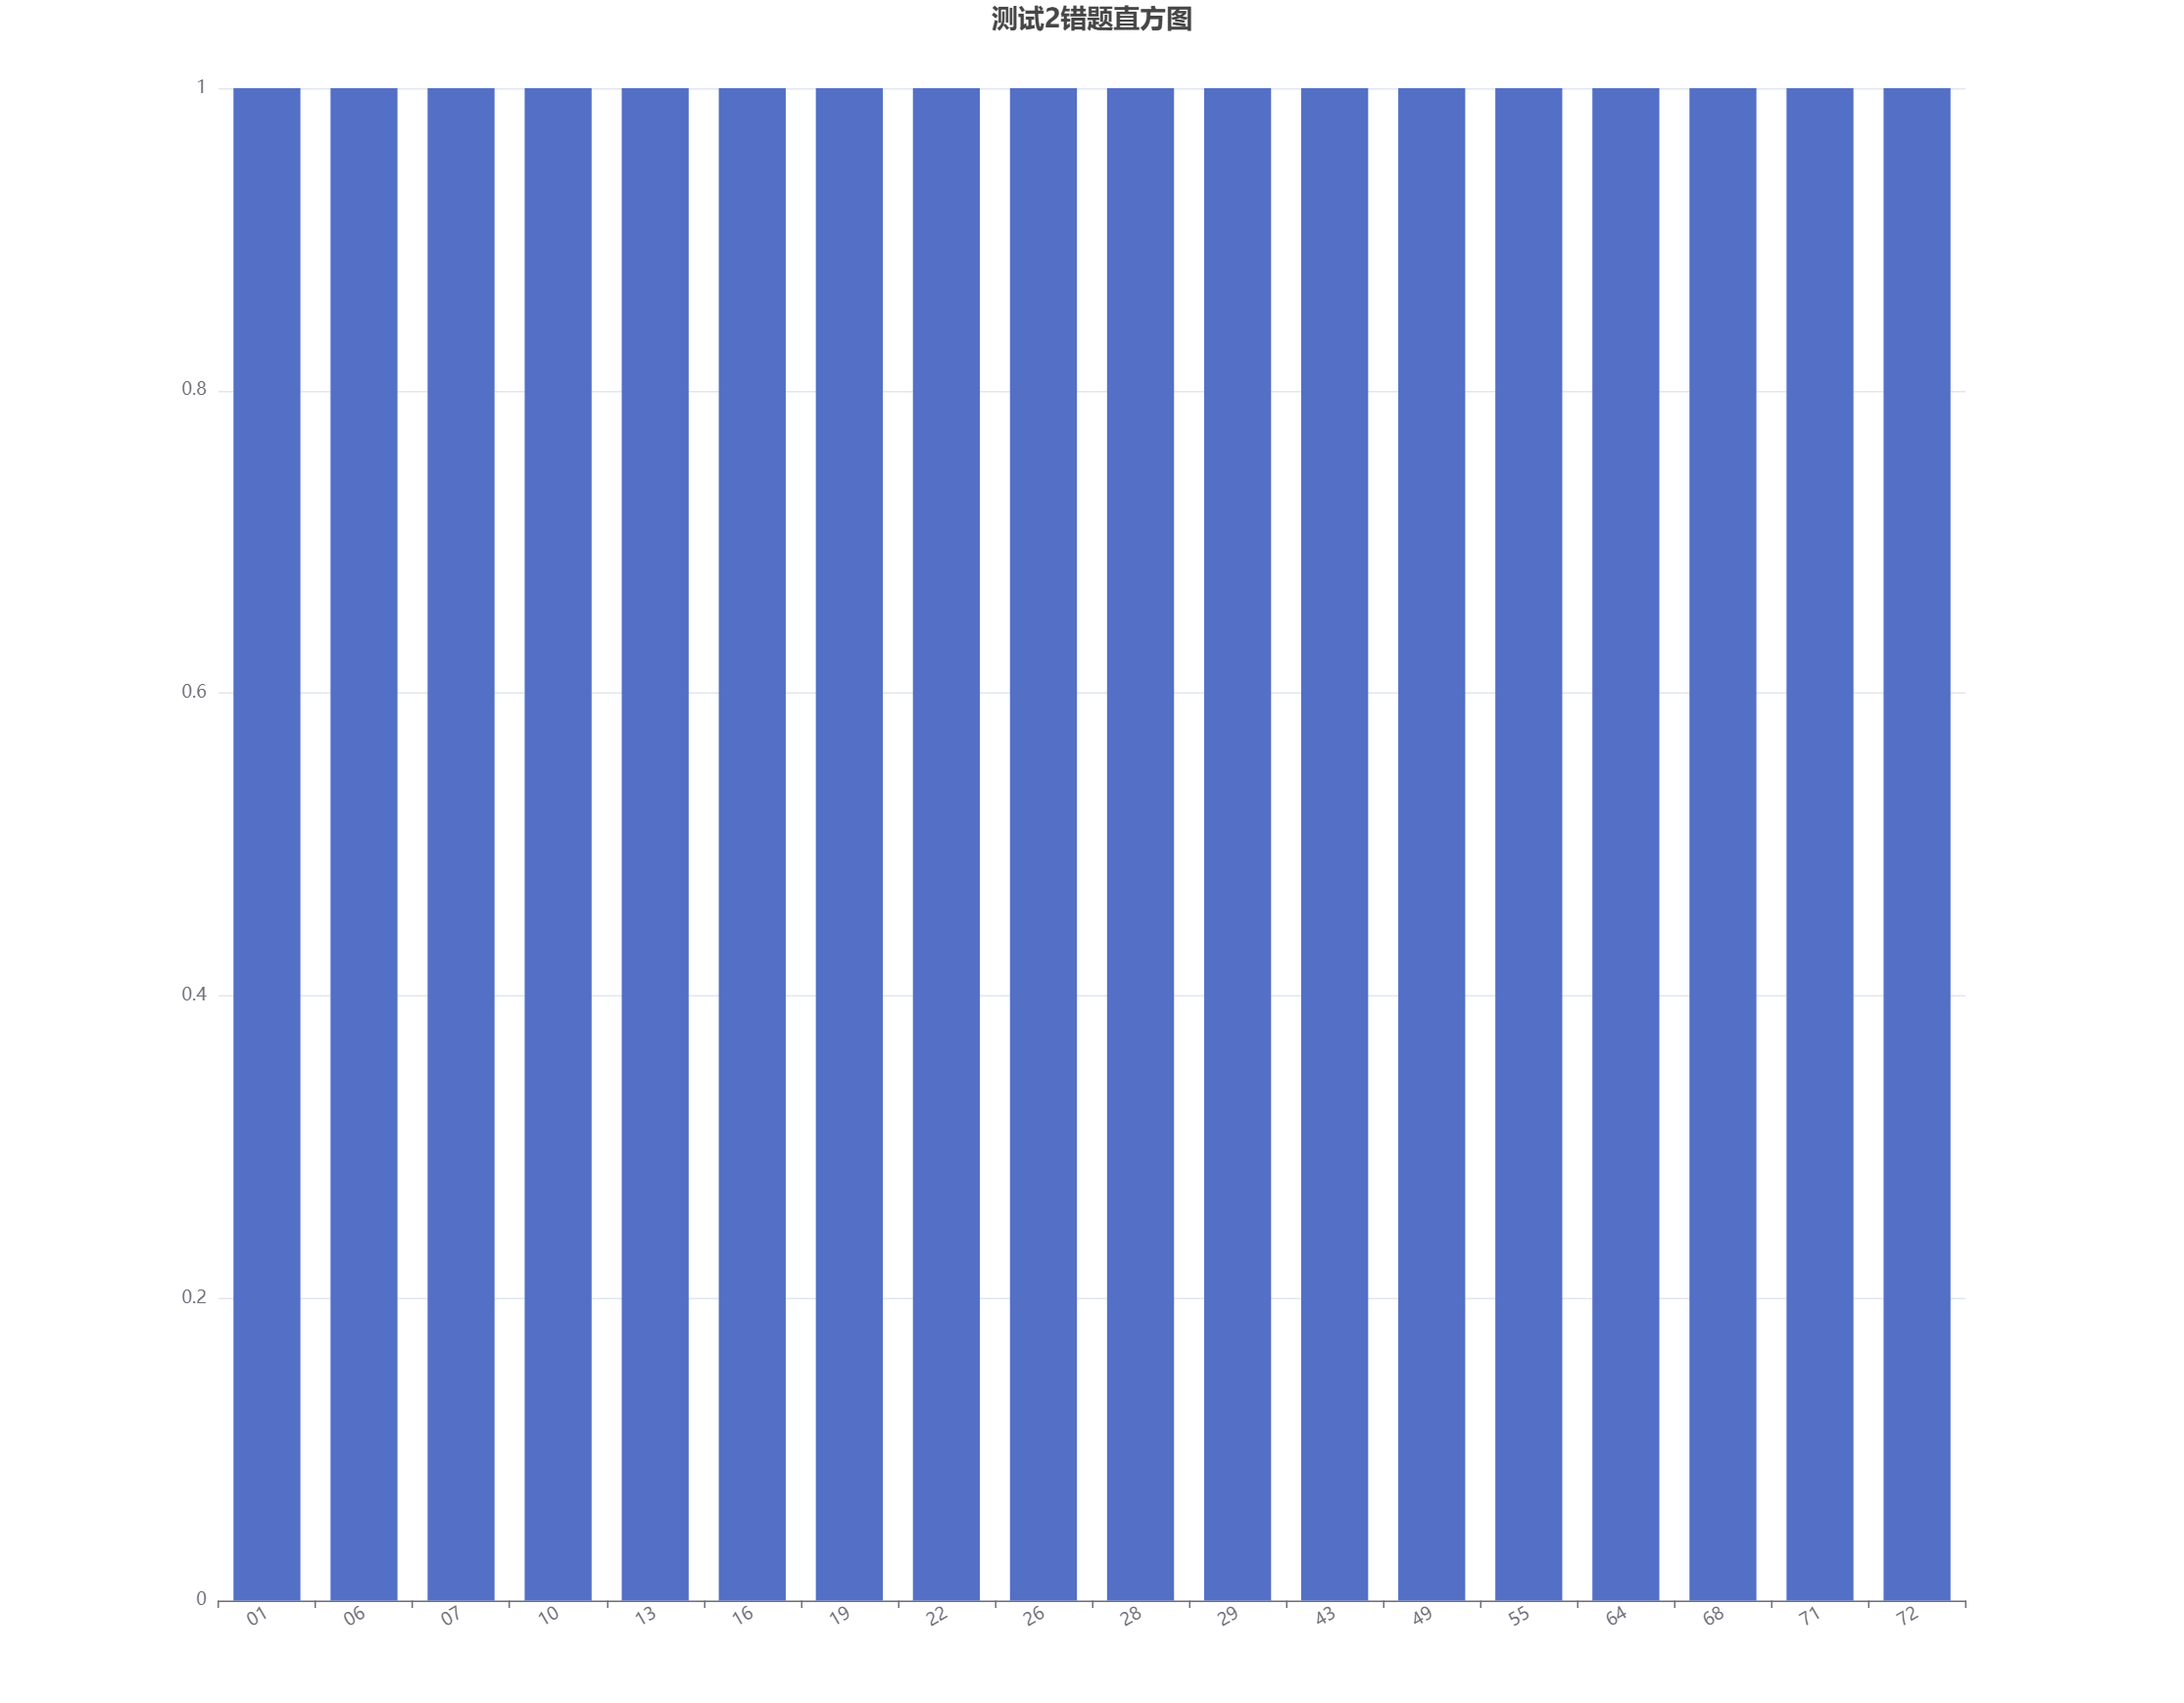
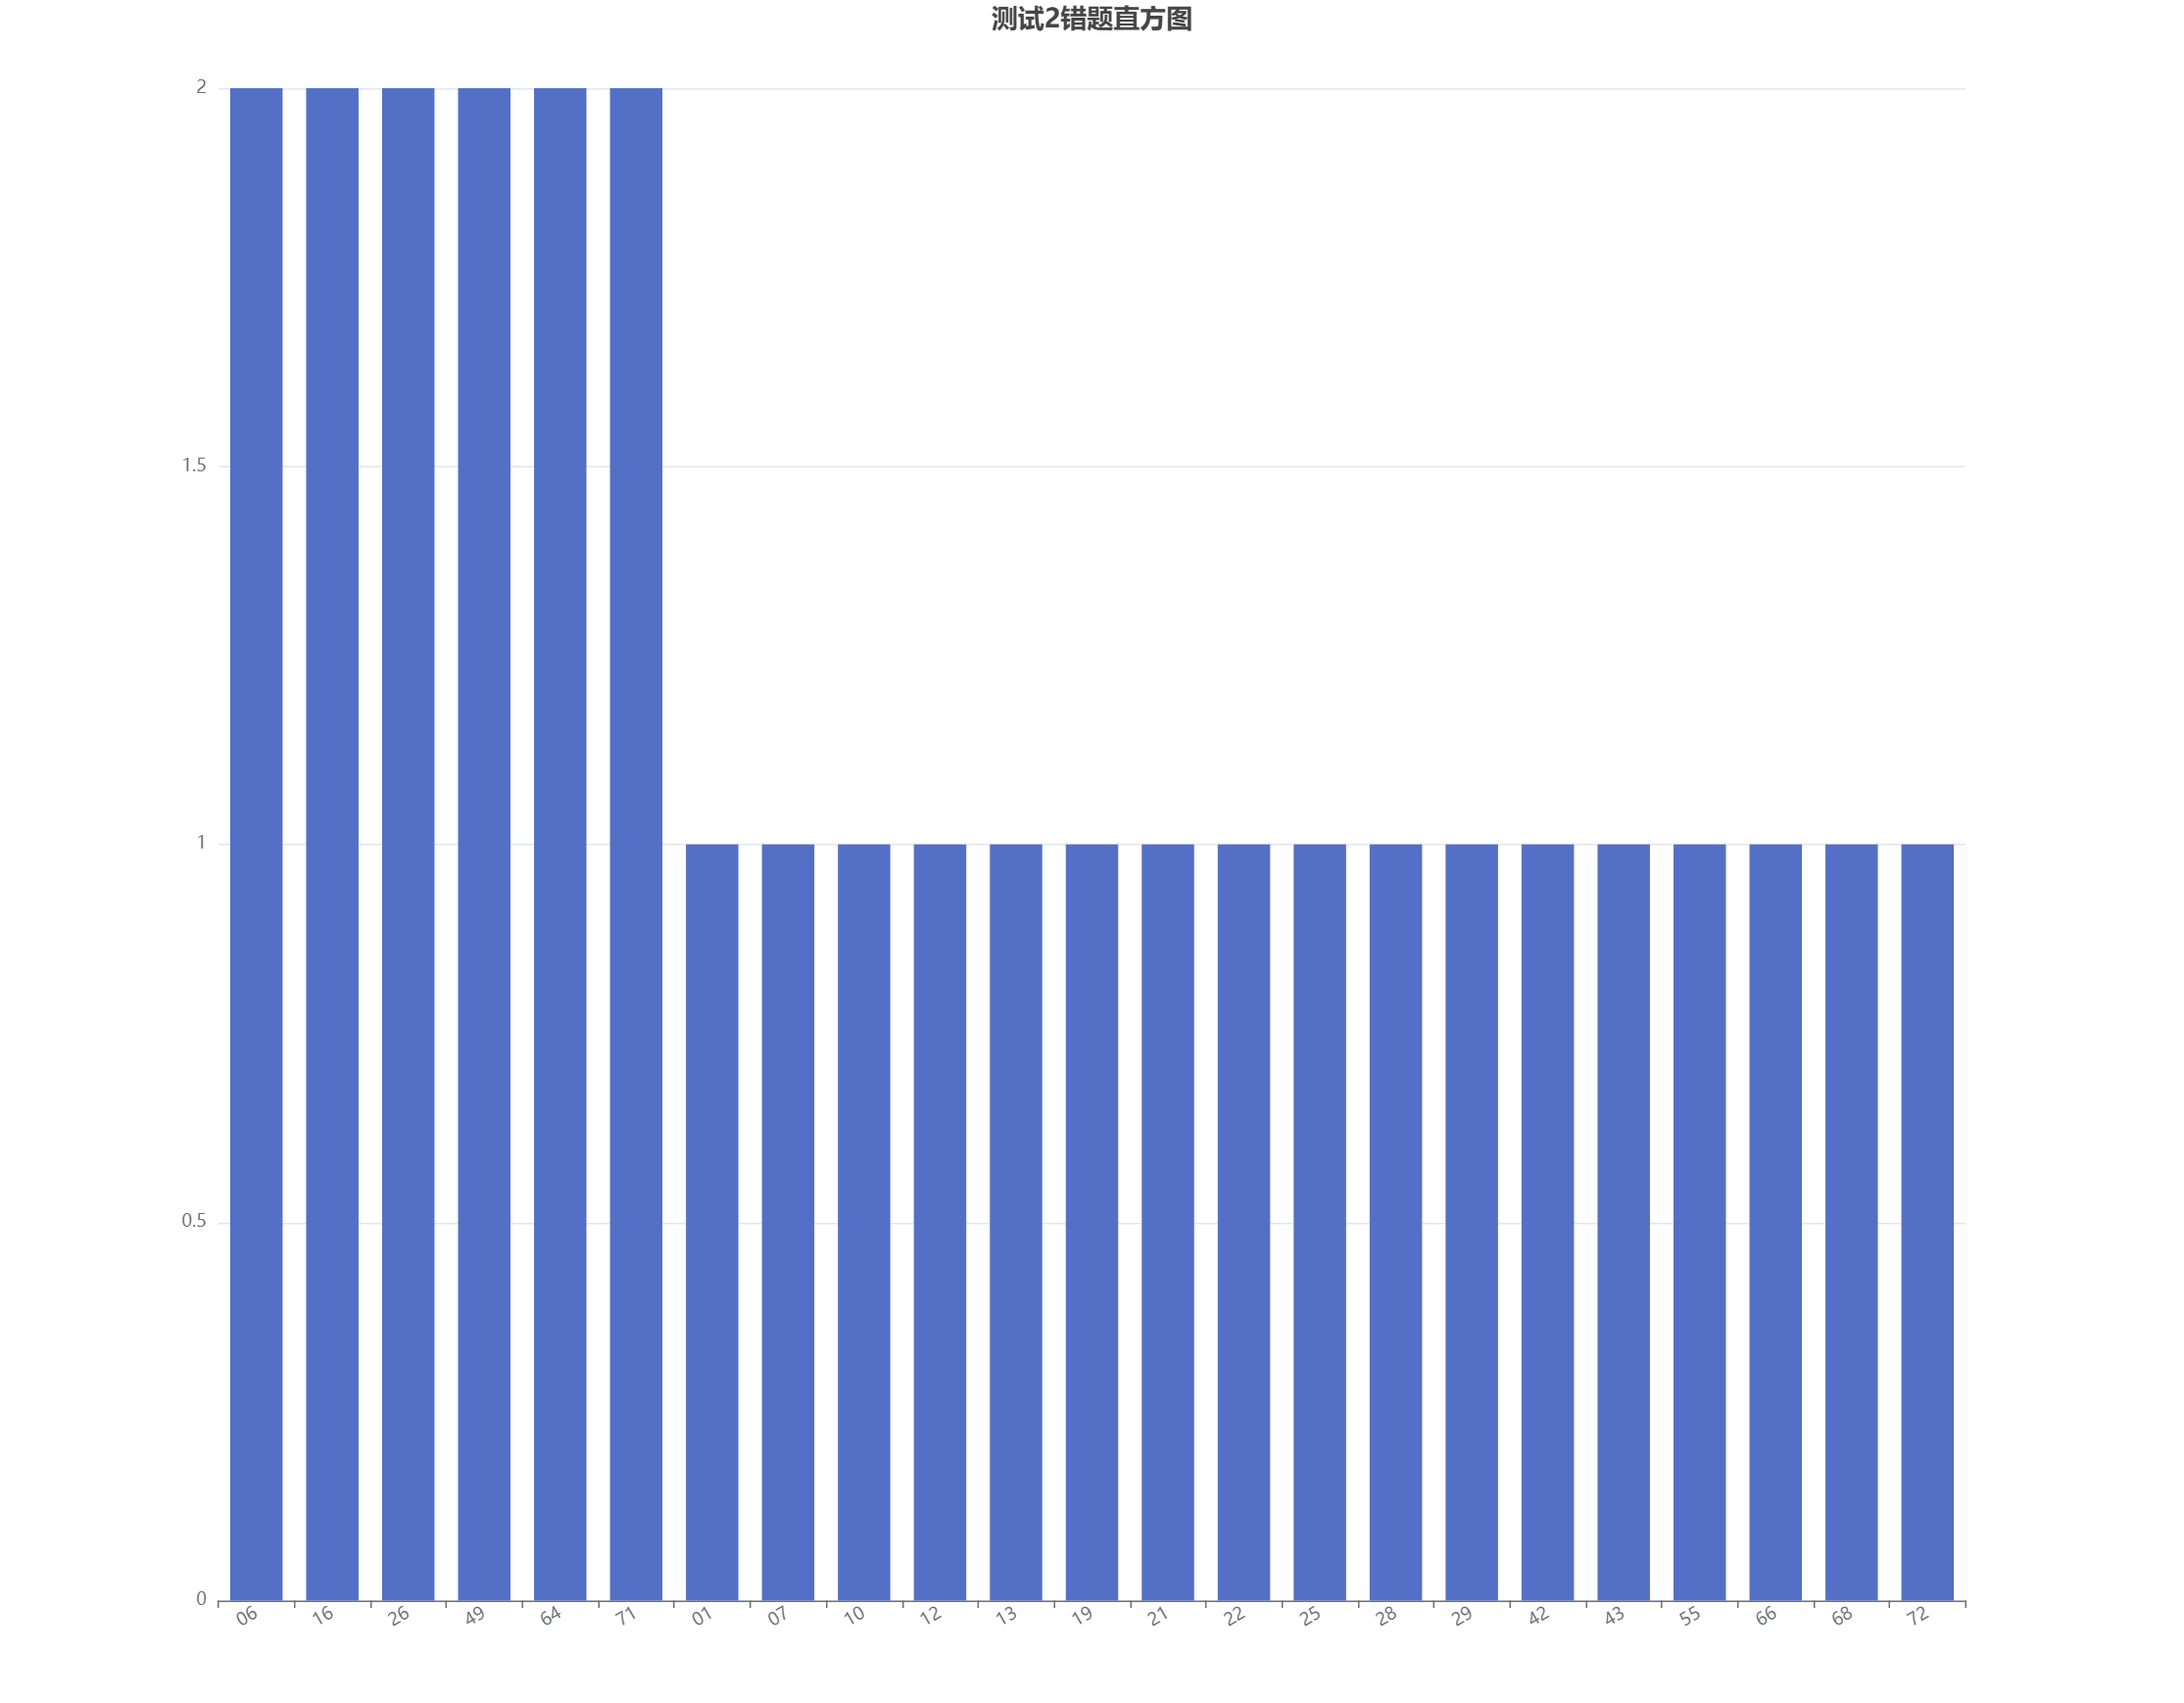
[update] update test result

diff --git a/src/result.js b/src/result.js
@@ -68,22 +68,27 @@ option = {
       dimensions: ["number", "frequent"],
       source: [
         ["01", 1],
-        ["06", 1],
+        ["06", 2],
         ["07", 1],
         ["10", 1],
+        ["12", 1],
         ["13", 1],
-        ["16", 1],
+        ["16", 2],
         ["19", 1],
+        ["21", 1],
         ["22", 1],
-        ["26", 1],
+        ["25", 1],
+        ["26", 2],
         ["28", 1],
         ["29", 1],
+        ["42", 1],
         ["43", 1],
-        ["49", 1],
+        ["49", 2],
         ["55", 1],
-        ["64", 1],
+        ["64", 2],
+        ["66", 1],
         ["68", 1],
-        ["71", 1],
+        ["71", 2],
         ["72", 1],
       ],
     },

diff --git a/src/rate.js b/src/rate.js
@@ -48,7 +48,7 @@ option = {
   },
   xAxis: {
     type: "category",
-    data: ["第一回"],
+    data: ["第一回", "第二回"],
   },
   yAxis: {
     type: "value",
@@ -59,7 +59,7 @@ option = {
   },
   series: [
     {
-      data: [76.3],
+      data: [76.3, 85.5],
       type: "line",
       markLine: {
         symbol: ["none", "none"],
